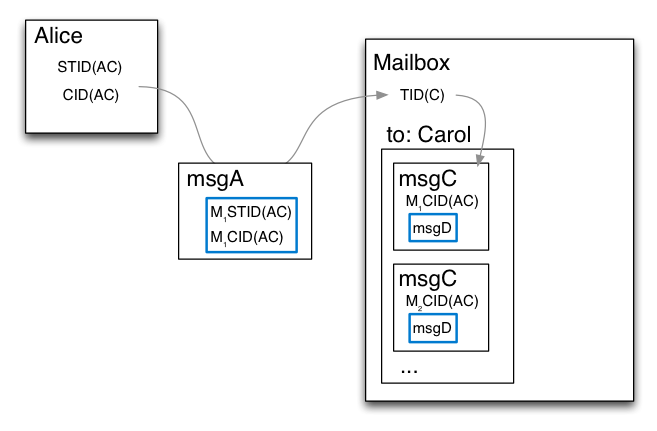
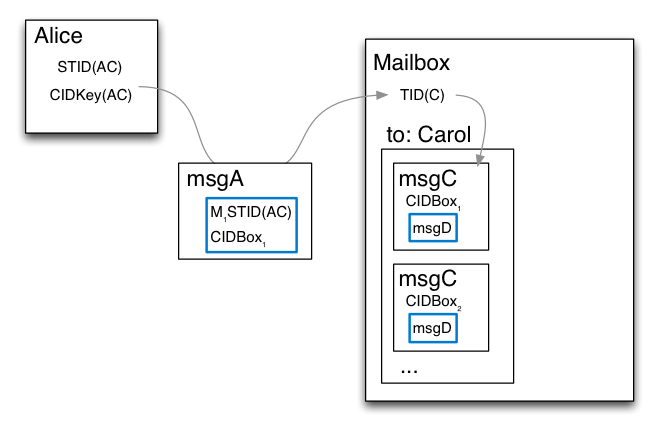
mailbox.md: update to latest protocol (CIDBox/CIDToken)
Updated diagrams too.

diff --git a/docs/mailbox.md b/docs/mailbox.md
@@ -7,9 +7,12 @@ allow clients to receive messages despite not being online all the time, and
 living behind a NAT box. Some mailboxes can also improve privacy by making it
 difficult to link sender and receiver.
 
-Each mailbox has a `transport descriptor` string that describes how other
-nodes should deliver messages to it. This is shaped like a URL, with a type
-identifier string, followed by a colon, followed by the transport details.
+Recipients construct `transport descriptor` and `channel descriptor` strings
+to instruct other nodes on how they should deliver their messages. These are
+JSON-serializable data structures that always have a `type` field, and have
+other fields depending upon the type. Each addressbook entry contains exactly
+one channel descriptor, and one or more transport descriptors (one per
+mailbox in use).
 
 Client nodes can provide their own mailbox. This is most useful for
 development, however it can be used for production when the transport
@@ -35,12 +38,14 @@ on the sending side of one channel, and the receiving side of the reverse
 channel. Each Channel uses a signing/verifying keypair, and a (current, old)
 pair of box/unbox keypairs. The sender's entry holds the signing key and the
 two pubkeys. The receiver's entry holds the verifying key and the two
-privkeys.
+privkeys. The two ends of a channel also share a CIDKey (described below),
+and a duplicate-suppressing message sequence number (the sender increments a
+counter, and the receiver remembers the highest seqnum they've ever seen).
 
 Transport: A queue inside a Mailbox server, dedicated to a single receiving
-Node, but shared between all Channels for that recipient. The Transport ID is
-known to the mailbox server, established when the recipient configures the
-mailbox.
+Node, but shared between all Channels delivering to recipient. The Transport
+ID (TID) is established when the recipient configures the mailbox, and is
+known to the mailbox server
 
 ## Delivery and Retrieval
 
@@ -74,41 +79,54 @@ The following transports are defined or planned:
 
 Each transport descriptor needs to convey the following information:
 
-* Reachability data for the mailbox. This is frequently a hostname/IP-address
-  and a port number. Some transports have other forms of indirection, so this
-  could instead be a Tor hidden-service (.onion) address, or a SMTP mailbox
-  name (username@host), or a local directory name.
+* Reachability data for the mailbox. This is frequently a URL, or
+  hostname/IP-address and port number. Some transports have other forms of
+  indirection, so this could instead be a Tor hidden-service (.onion)
+  address, or a SMTP mailbox name (username@host), or a local directory name.
 * Encryption pubkey for the mailbox. This is a 32-byte Curve25519 pubkey. All
   clients who share a mailbox will use the same pubkey. This is used to
   encrypt the outer message, which will be decrypted by the mailbox. The
   intention is to conceal the ultimate recipient of each inner message from
-  an eavesdropper watching the mailbox's inlet.
+  an eavesdropper watching the mailbox's network inlet.
 * Sender-Specific Transport ID (STID). This is a re-randomizable encrypted
-  token, unique to each channel (e.g. sender+receiver, independent for the
-  two directions). The sender will use this to create a per-message MSTID,
-  placed inside the outer-encrypted payload, so it will be visible to the
-  mailbox service itself, but not to an eavesdropper. Mailboxes will decrypt
-  this to obtain the (non-sender-specific) Transport ID (TID), which lets
-  them determine which recipient should receive the message.
-* Channel ID (CID): another re-randomizable token, also unique to the
-  sender+receiver pair. This is delivered next to the MSTID, but not
-  decrypted by the mailbox server. Instead, it is decrypted by the final
-  recipient to determine which channel the message is associated with.
+  token, unique to each channel. The sender will use this to create a
+  per-message "MSTID", placed inside the outer-encrypted payload, so it will
+  be visible to the mailbox service itself, but not to an eavesdropper.
+  Mailboxes will decrypt this to obtain the (non-sender-specific) Transport
+  ID (TID), which lets them determine which recipient should receive the
+  message.
 
-Recipients will also supply one box/unbox public key to the sender,
-independent of the mailbox descriptors, named "current". The "current" pubkey
-may be updated by subsequent messages later. This pubkey will be used to
-encrypt the inner messages, and provide forward-secrecy.
+The channel descriptor contains the following data:
+
+* Channel Identification Key (CIDKey): a symmetric encryption key, also
+  unique to the sender+receiver pair. This is used, with a random nonce, to
+  create a "CID Box": an encrypted box containing (seqnum+hash(msg)). The
+  encrypted box is delivered next to the MSTID, but not decrypted by the
+  mailbox server. Instead, the final recipient can perform trial decryptions
+  with all CIDKeys to determine which channel the message is associated with
+  (this is faster than using trial decryption of the real
+  Curve25519-encrypted box). The CIDKey is also used to construct a
+  "CIDToken", by hashing together the key and the message sequence number.
+  This token is delivered with the CIDBox, and (as long as no messages have
+  been dropped), enables the recipient to perform O(1) lookups of the
+  intended channel.
+* "channel-verfkey": an Ed25519 verifying key, used to authenticate messages
+* "channel-pubkey-current": a Curve25519 box/unbox public key, used to
+  encrypt the inner messages. This will be updated by subsequent messages, to
+  provide forward-secrecy.
 
 Multiple recipient nodes will share a mailbox service. Senders will get
-distinct STID and CIDs for each one, but their transport reachability data
+distinct STID and CIDKeys for each one, but their transport reachability data
 and mailbox pubkey will be the same.
 
-Multiple mailbox services could share the same reachability address. Their
-messages would be distinguished by the mailbox pubkey.
+Each mailbox service has a distinct pubkey. There should be a one-to-one
+relationship between reachability data and mailbox pubkey.
 
-Clients can use multiple mailbox services. All four components of the
-transport descriptor will be different.
+Clients can use multiple mailbox services, or even use multiple transports
+within a single mailbox. The STID will be different for each. These clients
+will provide multiple transport descriptors to their correspondents. However
+they will only provide a single channel descriptor to each correspondent,
+regardless of how many mailboxes they use.
 
 ## Renting an Inbox
 
@@ -159,10 +177,10 @@ are particularly convenient, so we use the mailbox key here too.
 
 The current protocol provides limited unlinkability of messages.
 Eavesdroppers do not learn anything from the contents of the inbound mailbox
-messages. The mailbox observes randomized Transport-ID and Channel-ID values,
-which do not provide information about the sender of each message (but
-necessarily reveal the recipient of each message, so they can queue the
-message in the right place).
+messages. The mailbox observes randomized or encrypted Transport-ID and
+Channel-ID values, which do not provide information about the sender of each
+message (but necessarily reveal the recipient of each message, so they can
+queue the message in the right place).
 
 Both the mailbox and eavesdroppers can also use timing and source-address
 information to correlate senders and their messages. It may be possible to
@@ -172,12 +190,12 @@ constant-rate random schedule.
 
 Senders can compare the mailbox reachability data and public key of their
 peers, to determine if two peers might be the same. They cannot, however,
-usefully compare their STID and CID values (as these are different for each
-sender). Two distinct recipients who both use the same mailbox host will be
-indistinguishable by their correspondents. Alice and Bob have no way to prove
-that Alice's peer named "Carol" is the same as Bob's peer named "Carol", or
-peven that "Carol" and "Dave" are different people. This only helps if many
-recipients use the same mailbox service.
+usefully compare their STID and CIDKey values (as these are different for
+each sender). Two distinct recipients who both use the same mailbox host will
+be indistinguishable by their correspondents. Alice and Bob have no way to
+prove that Alice's peer named "Carol" is the same as Bob's peer named
+"Carol", or even that "Carol" and "Dave" are different people. This only
+helps if many recipients use the same mailbox service.
 
 ## Forward Secrecy
 
@@ -204,24 +222,17 @@ two private keys is discarded immediately after encryption. The recipient
 must retain the corresponding private key until the last message encrypted to
 it is deleted.
 
-While this portion of the system is not yet defined, the intention is to have
-recipients update their senders with new rotating public keys. The sender
-periodically gets a signed list of numbered pubkeys. It sends one message for
-each pubkey until it runs out, then it re-uses the last pubkey until a new
-batch arrives. Each message includes the sequence number and the pubkey that
-was used. Upon receipt of each message, the recipient can safely delete the
-corresponding private keys with earlier sequence numbers (knowing the sender
-has forgotten the matching pubkeys).
+Recipients will periodically (but not always immediately) update their
+senders with a new key.
 
-To obtain sender-indistinguishability at the mailbox, these pubkeys should
-not be exposed to the mailbox (as any repeated usage would indicate two
-messages were from the same sender). So these keys must be wrapped in another
-encrypted box, using a stable recipient pubkey. Compromise of the stable
-recipient privkey enables the mailbox to distinguish different senders, but
-does not compromise any message contents. The current Petmail protocol does
-not use this wrapping, but a future version might.
+To enable recovery from client rollback (where a client is restored from a
+backup, losing the rotating keypairs but retaining the other data), Petmail
+only offers forward-security for confidentiality, not authentication. If a
+node's private state is revealed, the attacker may be able to retroactively
+identify the sender and/or recipient of old messages. However they should not
+be able to determine the contents of those messages.
 
-## Sender Deniability
+## Sender Deniability / Repudiation
 
 Senders should not have to treat their private communications as irrevocable
 public statements (unless they specifically ask for that). When Alice sends a
@@ -236,31 +247,36 @@ and nobody else knows it), then MAC each message instead of signing it. The
 recipient can forge her own messages, since she knows the MAC key too, making
 the author set (sender, recipient). Some systems, like OTR, go further and
 publish the MAC key after confirming receipt of the message, to increase the
-potential author set to be (sender, recipient, eavesdroppers). And attempting
-to prove authenticity to a third party, by revealing the MAC key, inevitably
-adds the third party to the author set as well.
+potential author set to be (sender, recipient, eavesdroppers). In addition,
+should Bob attempt to prove a message's authenticity to a third party by
+revealing the MAC key, he inevitably adds the third party to the author set
+as well.
 
-Another technique is to have the sender sign a single-use encryption key.
-
-Petmail uses a variant of this technique that uses one of the ephemeral
-public keys as a verifier. The innermost message is encrypted by the
-Curve25519 box() function. The "to" public key is the recipient's current
-(rotating) pubkey. The "from" private key is ephemeral, created by the sender
-for this one message.
+Petmail uses a technique in which the sender signs a single-use encryption
+key, hidden inside the encrypted message. The innermost message is encrypted
+by the Curve25519 box() function. The "to" public key is the recipient's
+current (rotating) pubkey. The "from" private key is ephemeral, created by
+the sender for this one message.
 
 The inner message contains both the real payload and a signed message. The
 signed body is the ephemeral pubkey used for this one message, and is made
-with the sender's long-term signing key, for which the recipient knows the
-corresponding verifying key.
+with the sender's long-term per-channel signing key, for which the recipient
+knows the corresponding verifying key (the channel-verfkey).
 
-When Bob receives this message, he can show the signed ephemeral key to a
-third party, who will be convinced that Alice did indeed intend to send
-(somebody) a message encrypted with the corresponding privkey. Bob can also
-show the boxed message, and reveal his (rotating) private key, to show that
-Alice might have written the message. But the message could be written by
-anyone who knows either of the private keys, and since Bob knows his own
-private key, Bob could have written that message (or indeed any message)
-himself.
+When Bob receives this message, he knows that Alice would only sign such a
+key when she uses it to encrypt a message intended for Bob. By checking that
+the inner message was encrypted with the same key as is included in the
+signed message, he can be sure that the message is from Alice. An
+eavesdropper (including the mailbox server) cannot see the signed message, so
+they do not learn the sender's identity.
+
+Bob could show the signed ephemeral key to a third party, who could be
+convinced that Alice did indeed intend to send (somebody) a message encrypted
+with the corresponding privkey. Bob can also show the boxed message, and
+reveal his (rotating) private key, to show that Alice might have written the
+message. But the message could be written by anyone who knows either of the
+private keys, and since Bob knows his own private key, Bob could have written
+that message (or indeed any message) himself.
 
 This does not provide the large authorship set OTR gets by publishing the MAC
 key, but still includes at least the recipient in the set, which is enough to
@@ -286,19 +302,24 @@ JSON). The `encoded payload` is the two-byte version identifier "p1" (0x70
 The sender then uses the addressbook entry to determine:
 
 * the channel's sender-specific transport ID (STID)
-* the channel's Channel ID (CID)
+* the channel's Channel ID Key (CIDKey)
 * the mailbox's stable public key (mailbox-pubkey)
 * the channel's current rotating public key (channel-pubkey)
 * the sender's stable signing key, for just this recipient (sender-signkey)
 
 and creates two ephemeral keypairs pubkey1/pubkey2 (with corresponding
-privkey1/privkey2). It re-randomizes STID to get MSTID, and CID to get MCID.
-Each message gets a different re-randomization of the two values.
+privkey1/privkey2). It re-randomizes STID to get MSTID, and uses CIDKey to
+create the CIDBox and CIDToken. Each message gets a different MSTID, CIDBox,
+and CIDToken.
 
 The sender then builds the layered message as follows:
 
-* msgD = sign(by=sender-signkey, pubkey2) + encoded-payload
-* msgC = MCID + pubkey2 + encrypt(to=channel-pubkey, from=privkey2, msgD)
+* msgE = seqnum + sign(by=sender-signkey, pubkey2) + encoded-payload
+* msgD = pubkey2 + encrypt(to=channel-pubkey, from=privkey2, msgE)
+* HmsgD = hash(msgD)
+* CIDToken = HKDF(key=CIDKey+seqnum, context="petmail.org/v1/CIDToken")
+* CIDBox = symbox(key=CIDKey, seqnum+HmsgD+channel-pubkey)
+* msgC = CIDToken + CIDBox + msgD
 * msgB = MSTID + msgC
 * msgA = pubkey1 + encrypt(to=mailbox, from=privkey1, msgB)
 
@@ -308,33 +329,29 @@ Some notes on terminology:
 
 * sign(by=X,msg=Y) returns the concatenation of the msg Y and the 64-byte
   Ed25519 signature (R and S concatenated together)
+* symbox(key=X, Z) produces the concatenation of a 24-byte random nonce, the
+  encrypted message Z, and the 32-byte Poly1305 MAC. This is built by
+  concatenating the nonce and the output of crypto_secretbox().
 * encrypt(to=X, from=Y, Z) produces the concatenation of a 24-byte random
   nonce, the encrypted message Z, and the 32-byte Poly1305 MAC. This is built
   by concatenating the nonce and the output of crypto_box().
 
 ## Wire Protocol
 
-To deliver transport messages ("msgA" above) via the raw TCP transport, a TCP
-connection is established to the mailbox's address and port. This connection
-can be used for multiple messages, concatenated together (i.e. the connection
-can be nailed up and messages delivered later). Each message is encapsulated
-as follows:
+To deliver transport messages ("msgA" above) via the HTTP transport, an HTTP
+POST is performed to the mailbox's URL. The payload of the request contains
+the following:
 
 * A two-byte version indicator, "v1" (0x76 0x31)
-* A netstring with the transport message (decimal length, ":", msgA, ".").
-  msgA contains:
+* msgA, which contains:
 
-  * 32-byte mailbox pubkey
   * 32-byte sender ephemeral pubkey (pubkey1)
   * 24-byte nonce
   * encrypted msgB
   * 32-byte MAC
 
-The mailbox checks the mailbox pubkey to make sure it matches that of the
-mailbox, and discards the message otherwise. (This pubkey could be used to
-allow multiple mailboxes to share the same transport channel or TCP port). It
-then uses the mailbox privkey and pubkey1 to decrypt the message and obtain
-msgB.
+Once the POST is complete, the server uses the mailbox privkey and pubkey1 to
+decrypt the message and obtain msgB.
 
 It then splits msgB into MSTID the inner msgC. It decrypts MSTID to obtain
 the non-sender-specific non-message-specific yes-recipient-specific TID,
@@ -343,13 +360,11 @@ TID is unrecognized, it returns an error.
 
 ![02-mailbox](./images/02-mailbox.png)
 
-When the message has been safely queued, connection-oriented transports (TCP,
-Tor) indicate success by writing "ok:" (0x6f 0x6b 0x3a) followed by the
-32-byte SHA256 hash of the encapsulated transport message (everything from
-"v1" to the netstring's trailing ".") to the connection. If an error occurs,
-it writes "error: MSG." instead, where "MSG" is any string that does not
-contain a period. Non-connection oriented transports can log successes and
-errors but do not (and cannot) inform the sender.
+When the message has been safely queued, the HTTP response of "200 OK" is
+returned. If an error occurs (bad MAC, unrecognized MSTID, disk full), a "400
+BAD_REQUEST" is returned, and the sender should try again later or through a
+different mailbox. Other transports (non-connection oriented) can log
+successes and errors but do not (and cannot) inform the sender.
 
 ## Client Flow
 
@@ -362,16 +377,27 @@ instructs the mailbox to delete the queued messages. If the client maintains
 multiple queues with the same mailbox service (e.g. multiple TIDs), it must
 retrieve each set of messages separately.
 
-The recipient extracts MCID from the message and decrypts it to obtain the
-sender-specific receiver-specific non-message-specific Channel ID (CID)
-value. The CID maps to a specific address-book entry, from which inbound
-channel information is extracted (the old and current channel privkeys, and
-the sender-verifykey). The client uses trial decryption (with both private
-keys), along with the included pubkey2, to decrypt msgD. It then uses
-sender-verifykey to check the internal signature of pubkey2, and asserts that
-the internal key2 matches the one used to encrypt msgD. (This protective
-binding may be redundant: a later version of this protocol might remove the
-signature).
+The recipient extracts CIDToken from the message and compares it against a
+table of pre-computed tokens for all channels that use this mailbox. It then
+trial-decrypts the CIDBox with the CIDKey for all channels, or just the one
+channel if the CIDToken found a match. Finally it trial-decrypts msgD with
+both channel pubkeys (old and new) for all channels (or just the one channel
+for which CIDToken matched). If a decrypted CIDToken reveals a seqnum that is
+not greater than the highest seqnum seen on this channel, or the seqnum in
+msgE does not meet this criteria, or if the two seqnums are different, the
+message is logged and discarded (as a duplicate, or a malformed message).
+
+Any valid message can be handled by trial decryption, at the cost of
+2*len(channels) `crypto_box_open()` operations. In (probably) all cases, this
+can be reduced to len(channels) `crypto_secretbox_open()` operations, which
+is significantly faster. And in nearly all cases (excepting when messages are
+dropped), it can be reduced to a single table lookup (of the CIDToken).
+
+Once the right channel is found, and msgD decrypted to obtain msgE, the
+recipient uses the channel's sender-verifykey to check the internal signature
+of pubkey2, and asserts that the internal key2 matches the one used to
+encrypt msgD. (This protective binding may be redundant: a later version of
+this protocol might remove the signature).
 
 If the "current" channel privkey was able to decrypt the message, the channel
 keys should be rotated: the old key forgotten, the current key renamed to
